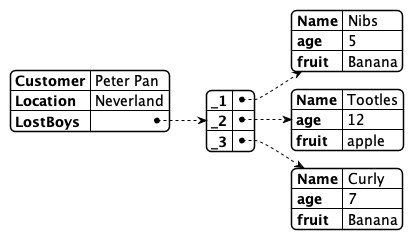
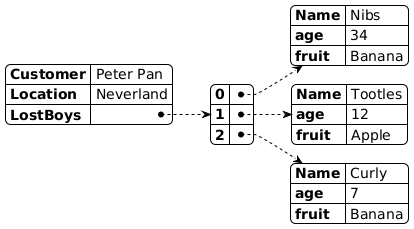
MXOP-22533

diff --git a/docs/howto/database/enablingadb.md b/docs/howto/database/enablingadb.md
@@ -119,9 +119,44 @@ A typical Notes construct are documents containing a group of multi value fields
 
 ![Domino REST API Fields](../../assets/images/SampleJsonNoFieldGroup.png)
 
+<!-- source of SampleJsonNoFieldGroup.png in PlantUML
+@startjson
+!theme plain
+{
+   "Customer":"Peter Pan",
+   "Location":"Neverland",
+   "Name": ["Nibs","Tootles","Curly"],
+   "age": ["34","12","7"],
+   "fruit": ["Banana","Apple","Banana"]
+}
+@endjson
+-->
+
 By assigning the fields `Name`, `age` and `fruit` the **fieldGroup** `LostBoys`, Domino REST API will render them as records in an JSON Object. We opted for an object to ease processing and addressing since arrays might not have a guarantee of sequence. The result looks like this:
 
 ![Domino REST API Fields](../../assets/images/SampleJsonFieldGroup.png)
+
+<!-- source of SampleJsonFieldGroup.png in PlantUML
+@startjson
+!theme plain
+{
+   "Customer":"Peter Pan",
+   "Location":"Neverland",
+   "LostBoys": 
+      {"0": {
+         "Name": "Nibs",
+         "Age": "34",
+         "Fruit": "Banana"
+     }, 
+     "1": {"Name": "Tootles",
+         "Age": "12",
+         "Fruit": "Apple"},
+     "2": {"Name": "Curly",
+         "Age": "7",
+         "Fruit": "Banana"}}
+}
+@endjson
+-->
 
 ### Form aliases
 
